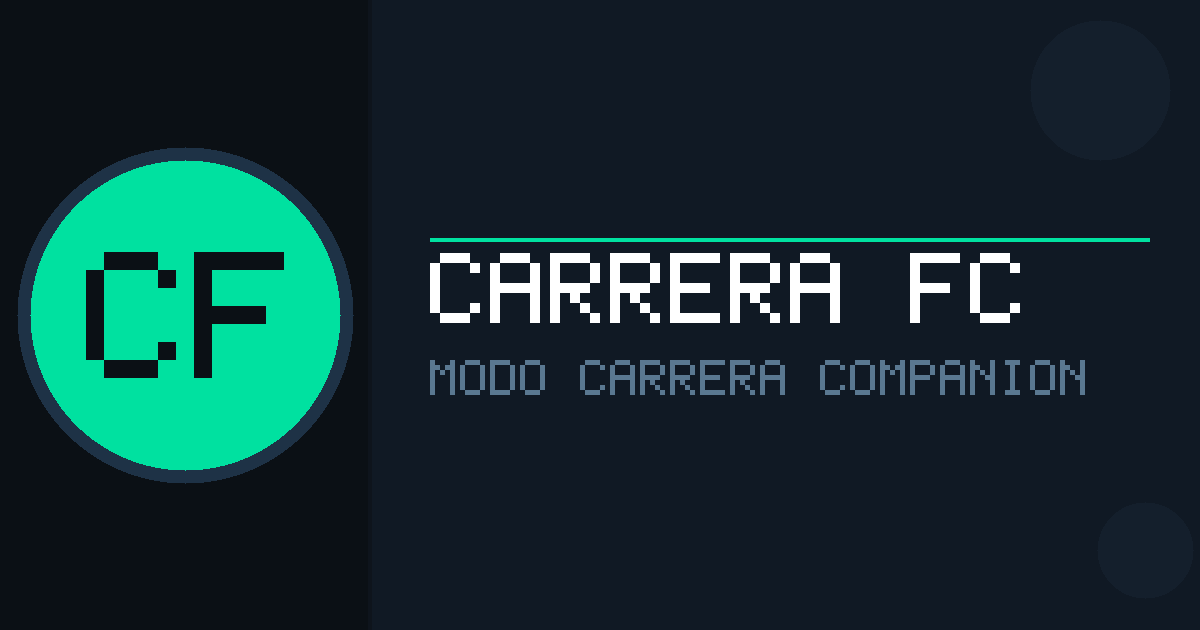
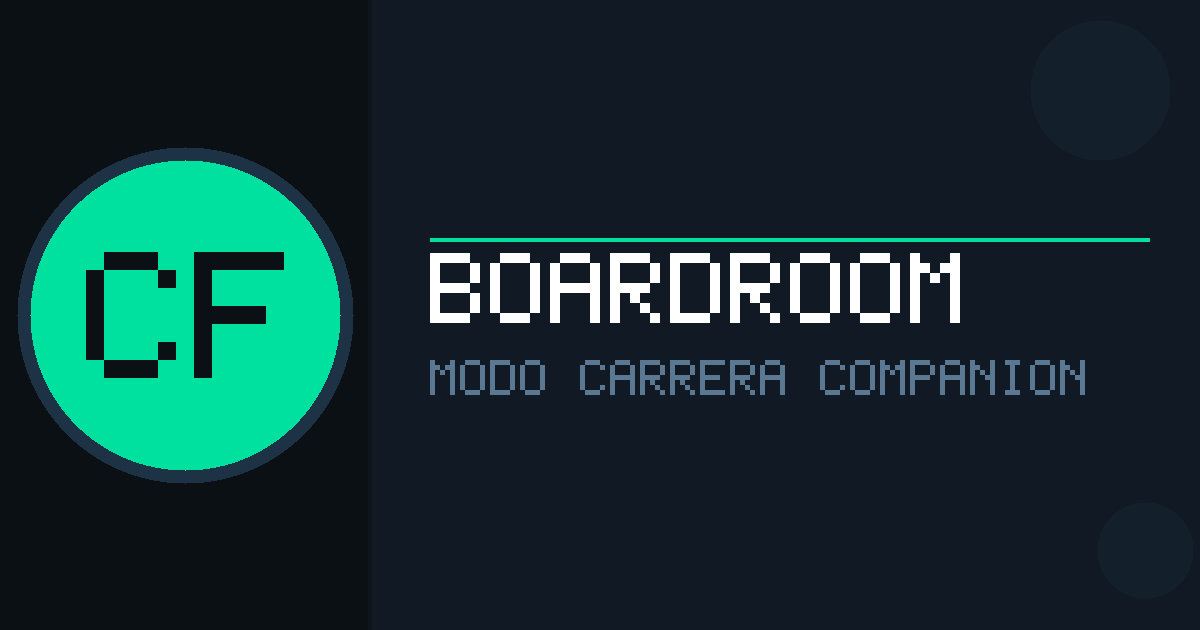
#32 Rebrand Carrera FC → Boardroom
Renombra toda la app a Boardroom: título, OG tags, sidebar, pantalla de
bienvenida, textos legales, watermark en tarjetas compartibles, hashtags.
Nuevo icon.svg: escudo neon + B. Iconos PNG regenerados. social.png actualizada
con título BOARDROOM. Cache SW bumped a boardroom-v1.

localStorage keys (carrerafc:db:v1, carrerafc:cloud:session) sin cambiar
para no romper datos existentes de usuarios.

diff --git a/index.html b/index.html
@@ -3,17 +3,17 @@
 <head>
   <meta charset="UTF-8" />
   <meta name="viewport" content="width=device-width, initial-scale=1.0, viewport-fit=cover" />
-  <title>Carrera FC · Compañero del Modo Carrera</title>
+  <title>Boardroom · Compañero del Modo Carrera</title>
   <meta name="description" content="El compañero definitivo del Modo Carrera de EA Sports FC: tracking, clasificaciones, retos y la historia de tu club." />
   <meta property="og:type" content="website" />
   <meta property="og:url" content="https://juzalex30.github.io/Career-Mode-webapp/" />
-  <meta property="og:title" content="Carrera FC · Compañero del Modo Carrera" />
+  <meta property="og:title" content="Boardroom · Compañero del Modo Carrera" />
   <meta property="og:description" content="Lleva tu Modo Carrera al siguiente nivel: plantilla, partidos, estadísticas, retos y comunidad." />
   <meta property="og:image" content="https://juzalex30.github.io/Career-Mode-webapp/social.png" />
   <meta property="og:image:width" content="1200" />
   <meta property="og:image:height" content="630" />
   <meta name="twitter:card" content="summary_large_image" />
-  <meta name="twitter:title" content="Carrera FC · Compañero del Modo Carrera" />
+  <meta name="twitter:title" content="Boardroom · Compañero del Modo Carrera" />
   <meta name="twitter:description" content="Lleva tu Modo Carrera al siguiente nivel: plantilla, partidos, estadísticas, retos y comunidad." />
   <meta name="twitter:image" content="https://juzalex30.github.io/Career-Mode-webapp/social.png" />
   <link rel="manifest" href="manifest.json" />
@@ -24,7 +24,7 @@
   <script>if("serviceWorker"in navigator)navigator.serviceWorker.register("sw.js");</script>
   <style>
 /* ============================================================
-   Carrera FC — estilos
+   Boardroom — estilos
    Tema oscuro por defecto (data-theme="dark"), variante clara.
    ============================================================ */
 
@@ -790,9 +790,9 @@ body.trip-open { overflow: hidden; }
   <div id="app" class="app">
     <aside class="sidebar" id="sidebar">
       <div class="brand">
-        <div class="brand-mark">CF</div>
+        <img src="icon.svg" width="40" height="40" style="border-radius:11px;flex:none" alt="Boardroom">
         <div class="brand-text">
-          <strong>Carrera FC</strong>
+          <strong>Boardroom</strong>
           <span>Modo Carrera Companion</span>
         </div>
       </div>
@@ -7331,10 +7331,10 @@ body.trip-open { overflow: hidden; }
     const p = (t) => `<p style="margin:0 0 8px;font-size:13.5px;color:var(--text-dim);line-height:1.55">${t}</p>`;
     const body = `
       <p style="margin:0 0 4px;font-size:12px;color:var(--text-dim)">Última actualización: junio de 2026</p>
-      ${h("Qué es Carrera FC")}
-      ${p("Carrera FC es una aplicación web <b>gratuita y de fans</b>, companion del Modo Carrera de EA Sports FC. Funciona en tu navegador y guarda tus datos en este dispositivo; la nube y la comunidad son <b>opcionales</b>.")}
+      ${h("Qué es Boardroom")}
+      ${p("Boardroom es una aplicación web <b>gratuita y de fans</b>, companion del Modo Carrera de EA Sports FC. Funciona en tu navegador y guarda tus datos en este dispositivo; la nube y la comunidad son <b>opcionales</b>.")}
       ${h("Aviso legal — proyecto no oficial")}
-      ${p("Carrera FC es un proyecto <b>no oficial</b> sin afiliación, patrocinio ni licencia de Electronic Arts Inc., EA Sports, EA Sports FC, la FIFA, ni de los clubes, ligas, competiciones o jugadores mencionados. Todas las marcas, nombres y derechos pertenecen a sus respectivos propietarios y se usan solo con fines descriptivos para que registres tu propia carrera.")}
+      ${p("Boardroom es un proyecto <b>no oficial</b> sin afiliación, patrocinio ni licencia de Electronic Arts Inc., EA Sports, EA Sports FC, la FIFA, ni de los clubes, ligas, competiciones o jugadores mencionados. Todas las marcas, nombres y derechos pertenecen a sus respectivos propietarios y se usan solo con fines descriptivos para que registres tu propia carrera.")}
       ${h("Qué datos tratamos y con qué fin")}
       ${p("• <b>Tus carreras</b> (partidos, plantilla, etc.) se guardan en <b>tu navegador</b> (localStorage). No salen de tu dispositivo salvo que tú decidas subirlas a la nube.")}
       ${p("• <b>Email</b>: solo si creas una cuenta. Se usa para enviarte un <b>código de acceso de un solo uso</b> (no usamos contraseñas). Base legal: tu consentimiento.")}
@@ -7399,14 +7399,14 @@ body.trip-open { overflow: hidden; }
     ctx.strokeStyle = "rgba(255,255,255,0.08)"; ctx.lineWidth = 2; rr(PAD / 2, PAD / 2, W - PAD, H - PAD, 40); ctx.stroke();
     const maxW = W - PAD * 2;
     let y = PAD + 36;
-    ctx.fillStyle = ACC; ctx.font = font(30, "bold"); ctx.fillText(String(spec.brand || "Carrera FC").toUpperCase(), PAD, y); y += 80;
+    ctx.fillStyle = ACC; ctx.font = font(30, "bold"); ctx.fillText(String(spec.brand || "Boardroom").toUpperCase(), PAD, y); y += 80;
     ctx.fillStyle = TEXT; wrap(spec.title, maxW, 96, "800").slice(0, 3).forEach(l => { ctx.font = font(96, "800"); ctx.fillText(l, PAD, y); y += 108; });
     if (spec.subtitle) { ctx.fillStyle = DIM; ctx.font = font(42); ctx.fillText(String(spec.subtitle), PAD, y + 4); y += 72; }
     y += 16; ctx.strokeStyle = ACC; ctx.lineWidth = 5; ctx.beginPath(); ctx.moveTo(PAD, y); ctx.lineTo(PAD + 130, y); ctx.stroke(); y += 58;
     if (spec.difficulty) { ctx.fillStyle = DIM; ctx.font = font(28, "bold"); ctx.fillText("DIFICULTAD", PAD, y); ctx.fillStyle = ACC; ctx.font = font(50); ctx.fillText("★".repeat(spec.difficulty) + "☆".repeat(Math.max(0, 5 - spec.difficulty)), PAD + 240, y + 8); y += 80; }
     ctx.fillStyle = TEXT; (spec.lines || []).forEach(line => wrap(line, maxW, 42).forEach(l => { if (y > H - PAD - 110) return; ctx.font = font(42); ctx.fillText(l, PAD, y); y += 58; }));
     if ((spec.chips || []).length) { y += 18; let cx = PAD, cy = y; ctx.font = font(32, "600"); spec.chips.forEach(ch => { const cw = ctx.measureText(ch).width + 48; if (cx + cw > W - PAD) { cx = PAD; cy += 70; } ctx.fillStyle = "rgba(0,225,160,0.14)"; rr(cx, cy - 40, cw, 56, 28); ctx.fill(); ctx.fillStyle = ACC; ctx.font = font(32, "600"); ctx.fillText(ch, cx + 24, cy); cx += cw + 16; }); }
-    ctx.fillStyle = DIM; ctx.font = font(30); ctx.fillText(String(spec.footer || "Mi Modo Carrera · Carrera FC"), PAD, H - PAD + 8);
+    ctx.fillStyle = DIM; ctx.font = font(30); ctx.fillText(String(spec.footer || "Mi Modo Carrera · Boardroom"), PAD, H - PAD + 8);
     const fn = (String(spec.filename || "carrera-fc").replace(/[^\w.-]+/g, "-").replace(/^-+|-+$/g, "") || "carrera-fc") + ".png";
     const a = document.createElement("a"); a.href = cv.toDataURL("image/png"); a.download = fn; a.click();
     UI.toast("Imagen descargada", "ok");
@@ -7428,7 +7428,7 @@ body.trip-open { overflow: hidden; }
       ${trophies.length ? `<div class="cc-rules">${trophies.map(t=>`<span class="chip gold">🏆 ${U.esc(t.competition||"")}${t.season?" "+U.esc(t.season):""}</span>`).join("")}</div>` : `<p class="faint">Sin títulos todavía.</p>`}
       <div class="section-title">Estrella del club</div>
       <p style="margin:0">⚽ Máximo goleador: <b>${top}</b></p>
-      <p class="faint" style="font-size:12px;margin-top:16px">Carrera compartida desde Carrera FC · solo lectura.</p>`;
+      <p class="faint" style="font-size:12px;margin-top:16px">Carrera compartida desde Boardroom · solo lectura.</p>`;
   };
   UI.openSharedByCode = async (code, cfgOverride) => {
     if (!code) { UI.toast("Indica un código", "err"); return; }
@@ -7577,7 +7577,7 @@ body.trip-open { overflow: hidden; }
     // —— Columna de marca (izquierda) ——
     const feat = (icon, title, desc) => `<div class="wl-feat"><span class="wl-feat-ic"><span class="ni-icon" data-icon="${icon}"></span></span><div><b>${title}</b><span>${desc}</span></div></div>`;
     const brand = `<div class="wl-brand">
-      <div class="wl-logo"><div class="brand-mark">CF</div><div><div class="wl-name">Carrera FC</div><div class="wl-tag">Tu Modo Carrera, contado como una historia</div></div></div>
+      <div class="wl-logo"><img src="icon.svg" style="width:50px;height:50px;border-radius:14px;flex:none" alt="Boardroom"><div><div class="wl-name">Boardroom</div><div class="wl-tag">Tu Modo Carrera, contado como una historia</div></div></div>
       <div class="wl-feats">
         ${feat("coin", "Mercado BETMÁXIMA", "Cuotas, tipsters y boleto en vivo de cada partido")}
         ${feat("news", "Prensa y crónicas", "Titulares y crónicas generadas de tu temporada")}
@@ -8297,7 +8297,7 @@ body.trip-open { overflow: hidden; }
     ctx.beginPath(); ctx.moveTo(40, H-55); ctx.lineTo(W-40, H-55); ctx.stroke();
     ctx.fillStyle = "#00e1a0"; ctx.font = `bold 20px ${FONT}`;
     ctx.textAlign = "right"; ctx.textBaseline = "bottom";
-    ctx.fillText("Carrera FC", W-40, H-16);
+    ctx.fillText("Boardroom", W-40, H-16);
     ctx.fillStyle = "#62748c"; ctx.font = `17px ${FONT}`;
     ctx.textAlign = "left";
     ctx.fillText("Compañero del Modo Carrera · EA Sports FC", 40, H-16);
@@ -10530,7 +10530,7 @@ body.trip-open { overflow: hidden; }
       + "Objetivo: " + r.objective.text + " en " + r.seasons + " temporadas\n"
       + (r.twists.length ? "Reglas: " + r.twists.map(t => t.label).join(" · ") + "\n" : "")
       + "Dificultad: " + stars + "\n"
-      + "¿Te atreves? #CarreraFC #ModoCarrera";
+      + "¿Te atreves? #Boardroom #ModoCarrera";
   }
   function toolCopy(txt) {
     const done = () => UI.toast("Reto copiado 📋", "ok");
@@ -10586,11 +10586,11 @@ body.trip-open { overflow: hidden; }
       U.hydrateIcons(box);
       document.getElementById("tool-copy").addEventListener("click", () => toolCopy(rollShareText(r)));
       document.getElementById("tool-img").addEventListener("click", () => UI.downloadCard({
-        brand: r.mode === "rebuild" ? "Carrera FC · Rebuild" : "Carrera FC · Reto",
+        brand: r.mode === "rebuild" ? "Boardroom · Rebuild" : "Boardroom · Reto",
         title: r.club, subtitle: r.league, difficulty: r.difficulty,
         lines: [r.objective.text, "en " + r.seasons + " temporadas"],
         chips: r.twists.map(t => t.label),
-        footer: "¿Te atreves? · #CarreraFC #ModoCarrera", filename: "reto-" + r.club,
+        footer: "¿Te atreves? · #Boardroom #ModoCarrera", filename: "reto-" + r.club,
       }));
       document.getElementById("tool-again").addEventListener("click", reroll);
       document.getElementById("tool-activate").addEventListener("click", () => {
@@ -10855,7 +10855,7 @@ body.trip-open { overflow: hidden; }
       UI.toast("Nuevo suceso en el vestuario", "ok");
     });
     document.getElementById("story-img").addEventListener("click", () => UI.downloadCard({
-      brand: "Carrera FC · Temporada", title: c.clubName, subtitle: season.label,
+      brand: "Boardroom · Temporada", title: c.clubName, subtitle: season.label,
       lines: [recap], footer: "Mi Modo Carrera", filename: "temporada-" + c.clubName + "-" + season.label,
     }));
   };
@@ -11525,7 +11525,7 @@ body.trip-open { overflow: hidden; }
       </div>
       <div class="section-title">Privacidad y aviso legal</div>
       <div class="card" style="font-size:13px">
-        <p class="faint" style="margin-top:0">Carrera FC es un proyecto de fans <b>no oficial</b>, sin afiliación con EA Sports / EA Sports FC, la FIFA ni los clubes o competiciones mencionados.</p>
+        <p class="faint" style="margin-top:0">Boardroom es un proyecto de fans <b>no oficial</b>, sin afiliación con EA Sports / EA Sports FC, la FIFA ni los clubes o competiciones mencionados.</p>
         <button class="btn btn-ghost btn-sm" id="se-privacy"><span class="ni-icon" data-icon="news"></span> Política de privacidad y aviso legal</button>
       </div>
     `);
@@ -11985,7 +11985,7 @@ body.trip-open { overflow: hidden; }
     // active nav
     const cur = R.current || "dashboard";
     U.els("#mainNav .nav-item, .nav-bottom .nav-item").forEach(a => a.classList.toggle("active", a.dataset.route === cur));
-    const tt = document.getElementById("topbarTitle"); if (tt) tt.textContent = TITLES[cur] || "Carrera FC";
+    const tt = document.getElementById("topbarTitle"); if (tt) tt.textContent = TITLES[cur] || "Boardroom";
     document.body.classList.remove("nav-open");
     // Modo en vivo: pantalla a pantalla completa (oculta chrome y bloquea scroll de fondo).
     document.body.classList.toggle("live-active", cur === "live");

diff --git a/js/views.js b/js/views.js
@@ -71,10 +71,10 @@
     const p = (t) => `<p style="margin:0 0 8px;font-size:13.5px;color:var(--text-dim);line-height:1.55">${t}</p>`;
     const body = `
       <p style="margin:0 0 4px;font-size:12px;color:var(--text-dim)">Última actualización: junio de 2026</p>
-      ${h("Qué es Carrera FC")}
-      ${p("Carrera FC es una aplicación web <b>gratuita y de fans</b>, companion del Modo Carrera de EA Sports FC. Funciona en tu navegador y guarda tus datos en este dispositivo; la nube y la comunidad son <b>opcionales</b>.")}
+      ${h("Qué es Boardroom")}
+      ${p("Boardroom es una aplicación web <b>gratuita y de fans</b>, companion del Modo Carrera de EA Sports FC. Funciona en tu navegador y guarda tus datos en este dispositivo; la nube y la comunidad son <b>opcionales</b>.")}
       ${h("Aviso legal — proyecto no oficial")}
-      ${p("Carrera FC es un proyecto <b>no oficial</b> sin afiliación, patrocinio ni licencia de Electronic Arts Inc., EA Sports, EA Sports FC, la FIFA, ni de los clubes, ligas, competiciones o jugadores mencionados. Todas las marcas, nombres y derechos pertenecen a sus respectivos propietarios y se usan solo con fines descriptivos para que registres tu propia carrera.")}
+      ${p("Boardroom es un proyecto <b>no oficial</b> sin afiliación, patrocinio ni licencia de Electronic Arts Inc., EA Sports, EA Sports FC, la FIFA, ni de los clubes, ligas, competiciones o jugadores mencionados. Todas las marcas, nombres y derechos pertenecen a sus respectivos propietarios y se usan solo con fines descriptivos para que registres tu propia carrera.")}
       ${h("Qué datos tratamos y con qué fin")}
       ${p("• <b>Tus carreras</b> (partidos, plantilla, etc.) se guardan en <b>tu navegador</b> (localStorage). No salen de tu dispositivo salvo que tú decidas subirlas a la nube.")}
       ${p("• <b>Email</b>: solo si creas una cuenta. Se usa para enviarte un <b>código de acceso de un solo uso</b> (no usamos contraseñas). Base legal: tu consentimiento.")}
@@ -139,14 +139,14 @@
     ctx.strokeStyle = "rgba(255,255,255,0.08)"; ctx.lineWidth = 2; rr(PAD / 2, PAD / 2, W - PAD, H - PAD, 40); ctx.stroke();
     const maxW = W - PAD * 2;
     let y = PAD + 36;
-    ctx.fillStyle = ACC; ctx.font = font(30, "bold"); ctx.fillText(String(spec.brand || "Carrera FC").toUpperCase(), PAD, y); y += 80;
+    ctx.fillStyle = ACC; ctx.font = font(30, "bold"); ctx.fillText(String(spec.brand || "Boardroom").toUpperCase(), PAD, y); y += 80;
     ctx.fillStyle = TEXT; wrap(spec.title, maxW, 96, "800").slice(0, 3).forEach(l => { ctx.font = font(96, "800"); ctx.fillText(l, PAD, y); y += 108; });
     if (spec.subtitle) { ctx.fillStyle = DIM; ctx.font = font(42); ctx.fillText(String(spec.subtitle), PAD, y + 4); y += 72; }
     y += 16; ctx.strokeStyle = ACC; ctx.lineWidth = 5; ctx.beginPath(); ctx.moveTo(PAD, y); ctx.lineTo(PAD + 130, y); ctx.stroke(); y += 58;
     if (spec.difficulty) { ctx.fillStyle = DIM; ctx.font = font(28, "bold"); ctx.fillText("DIFICULTAD", PAD, y); ctx.fillStyle = ACC; ctx.font = font(50); ctx.fillText("★".repeat(spec.difficulty) + "☆".repeat(Math.max(0, 5 - spec.difficulty)), PAD + 240, y + 8); y += 80; }
     ctx.fillStyle = TEXT; (spec.lines || []).forEach(line => wrap(line, maxW, 42).forEach(l => { if (y > H - PAD - 110) return; ctx.font = font(42); ctx.fillText(l, PAD, y); y += 58; }));
     if ((spec.chips || []).length) { y += 18; let cx = PAD, cy = y; ctx.font = font(32, "600"); spec.chips.forEach(ch => { const cw = ctx.measureText(ch).width + 48; if (cx + cw > W - PAD) { cx = PAD; cy += 70; } ctx.fillStyle = "rgba(0,225,160,0.14)"; rr(cx, cy - 40, cw, 56, 28); ctx.fill(); ctx.fillStyle = ACC; ctx.font = font(32, "600"); ctx.fillText(ch, cx + 24, cy); cx += cw + 16; }); }
-    ctx.fillStyle = DIM; ctx.font = font(30); ctx.fillText(String(spec.footer || "Mi Modo Carrera · Carrera FC"), PAD, H - PAD + 8);
+    ctx.fillStyle = DIM; ctx.font = font(30); ctx.fillText(String(spec.footer || "Mi Modo Carrera · Boardroom"), PAD, H - PAD + 8);
     const fn = (String(spec.filename || "carrera-fc").replace(/[^\w.-]+/g, "-").replace(/^-+|-+$/g, "") || "carrera-fc") + ".png";
     const a = document.createElement("a"); a.href = cv.toDataURL("image/png"); a.download = fn; a.click();
     UI.toast("Imagen descargada", "ok");
@@ -168,7 +168,7 @@
       ${trophies.length ? `<div class="cc-rules">${trophies.map(t=>`<span class="chip gold">🏆 ${U.esc(t.competition||"")}${t.season?" "+U.esc(t.season):""}</span>`).join("")}</div>` : `<p class="faint">Sin títulos todavía.</p>`}
       <div class="section-title">Estrella del club</div>
       <p style="margin:0">⚽ Máximo goleador: <b>${top}</b></p>
-      <p class="faint" style="font-size:12px;margin-top:16px">Carrera compartida desde Carrera FC · solo lectura.</p>`;
+      <p class="faint" style="font-size:12px;margin-top:16px">Carrera compartida desde Boardroom · solo lectura.</p>`;
   };
   UI.openSharedByCode = async (code, cfgOverride) => {
     if (!code) { UI.toast("Indica un código", "err"); return; }
@@ -317,7 +317,7 @@
     // —— Columna de marca (izquierda) ——
     const feat = (icon, title, desc) => `<div class="wl-feat"><span class="wl-feat-ic"><span class="ni-icon" data-icon="${icon}"></span></span><div><b>${title}</b><span>${desc}</span></div></div>`;
     const brand = `<div class="wl-brand">
-      <div class="wl-logo"><div class="brand-mark">CF</div><div><div class="wl-name">Carrera FC</div><div class="wl-tag">Tu Modo Carrera, contado como una historia</div></div></div>
+      <div class="wl-logo"><img src="icon.svg" style="width:50px;height:50px;border-radius:14px;flex:none" alt="Boardroom"><div><div class="wl-name">Boardroom</div><div class="wl-tag">Tu Modo Carrera, contado como una historia</div></div></div>
       <div class="wl-feats">
         ${feat("coin", "Mercado BETMÁXIMA", "Cuotas, tipsters y boleto en vivo de cada partido")}
         ${feat("news", "Prensa y crónicas", "Titulares y crónicas generadas de tu temporada")}
@@ -1037,7 +1037,7 @@
     ctx.beginPath(); ctx.moveTo(40, H-55); ctx.lineTo(W-40, H-55); ctx.stroke();
     ctx.fillStyle = "#00e1a0"; ctx.font = `bold 20px ${FONT}`;
     ctx.textAlign = "right"; ctx.textBaseline = "bottom";
-    ctx.fillText("Carrera FC", W-40, H-16);
+    ctx.fillText("Boardroom", W-40, H-16);
     ctx.fillStyle = "#62748c"; ctx.font = `17px ${FONT}`;
     ctx.textAlign = "left";
     ctx.fillText("Compañero del Modo Carrera · EA Sports FC", 40, H-16);
@@ -3270,7 +3270,7 @@
       + "Objetivo: " + r.objective.text + " en " + r.seasons + " temporadas\n"
       + (r.twists.length ? "Reglas: " + r.twists.map(t => t.label).join(" · ") + "\n" : "")
       + "Dificultad: " + stars + "\n"
-      + "¿Te atreves? #CarreraFC #ModoCarrera";
+      + "¿Te atreves? #Boardroom #ModoCarrera";
   }
   function toolCopy(txt) {
     const done = () => UI.toast("Reto copiado 📋", "ok");
@@ -3326,11 +3326,11 @@
       U.hydrateIcons(box);
       document.getElementById("tool-copy").addEventListener("click", () => toolCopy(rollShareText(r)));
       document.getElementById("tool-img").addEventListener("click", () => UI.downloadCard({
-        brand: r.mode === "rebuild" ? "Carrera FC · Rebuild" : "Carrera FC · Reto",
+        brand: r.mode === "rebuild" ? "Boardroom · Rebuild" : "Boardroom · Reto",
         title: r.club, subtitle: r.league, difficulty: r.difficulty,
         lines: [r.objective.text, "en " + r.seasons + " temporadas"],
         chips: r.twists.map(t => t.label),
-        footer: "¿Te atreves? · #CarreraFC #ModoCarrera", filename: "reto-" + r.club,
+        footer: "¿Te atreves? · #Boardroom #ModoCarrera", filename: "reto-" + r.club,
       }));
       document.getElementById("tool-again").addEventListener("click", reroll);
       document.getElementById("tool-activate").addEventListener("click", () => {
@@ -3595,7 +3595,7 @@
       UI.toast("Nuevo suceso en el vestuario", "ok");
     });
     document.getElementById("story-img").addEventListener("click", () => UI.downloadCard({
-      brand: "Carrera FC · Temporada", title: c.clubName, subtitle: season.label,
+      brand: "Boardroom · Temporada", title: c.clubName, subtitle: season.label,
       lines: [recap], footer: "Mi Modo Carrera", filename: "temporada-" + c.clubName + "-" + season.label,
     }));
   };
@@ -4265,7 +4265,7 @@
       </div>
       <div class="section-title">Privacidad y aviso legal</div>
       <div class="card" style="font-size:13px">
-        <p class="faint" style="margin-top:0">Carrera FC es un proyecto de fans <b>no oficial</b>, sin afiliación con EA Sports / EA Sports FC, la FIFA ni los clubes o competiciones mencionados.</p>
+        <p class="faint" style="margin-top:0">Boardroom es un proyecto de fans <b>no oficial</b>, sin afiliación con EA Sports / EA Sports FC, la FIFA ni los clubes o competiciones mencionados.</p>
         <button class="btn btn-ghost btn-sm" id="se-privacy"><span class="ni-icon" data-icon="news"></span> Política de privacidad y aviso legal</button>
       </div>
     `);

diff --git a/build.js b/build.js
@@ -19,9 +19,9 @@ const BODY = `
   <div id="app" class="app">
     <aside class="sidebar" id="sidebar">
       <div class="brand">
-        <div class="brand-mark">CF</div>
+        <img src="icon.svg" width="40" height="40" style="border-radius:11px;flex:none" alt="Boardroom">
         <div class="brand-text">
-          <strong>Carrera FC</strong>
+          <strong>Boardroom</strong>
           <span>Modo Carrera Companion</span>
         </div>
       </div>
@@ -68,17 +68,17 @@ const out = `<!DOCTYPE html>
 <head>
   <meta charset="UTF-8" />
   <meta name="viewport" content="width=device-width, initial-scale=1.0, viewport-fit=cover" />
-  <title>Carrera FC · Compañero del Modo Carrera</title>
+  <title>Boardroom · Compañero del Modo Carrera</title>
   <meta name="description" content="El compañero definitivo del Modo Carrera de EA Sports FC: tracking, clasificaciones, retos y la historia de tu club." />
   <meta property="og:type" content="website" />
   <meta property="og:url" content="https://juzalex30.github.io/Career-Mode-webapp/" />
-  <meta property="og:title" content="Carrera FC · Compañero del Modo Carrera" />
+  <meta property="og:title" content="Boardroom · Compañero del Modo Carrera" />
   <meta property="og:description" content="Lleva tu Modo Carrera al siguiente nivel: plantilla, partidos, estadísticas, retos y comunidad." />
   <meta property="og:image" content="https://juzalex30.github.io/Career-Mode-webapp/social.png" />
   <meta property="og:image:width" content="1200" />
   <meta property="og:image:height" content="630" />
   <meta name="twitter:card" content="summary_large_image" />
-  <meta name="twitter:title" content="Carrera FC · Compañero del Modo Carrera" />
+  <meta name="twitter:title" content="Boardroom · Compañero del Modo Carrera" />
   <meta name="twitter:description" content="Lleva tu Modo Carrera al siguiente nivel: plantilla, partidos, estadísticas, retos y comunidad." />
   <meta name="twitter:image" content="https://juzalex30.github.io/Career-Mode-webapp/social.png" />
   <link rel="manifest" href="manifest.json" />

diff --git a/gensocial.js b/gensocial.js
@@ -37,6 +37,7 @@ function circle(cx, cy, r, c) {
 
 const GLYPHS = {
   A: ["01110","10001","10001","11111","10001","10001","10001"],
+  B: ["11110","10001","10001","11110","10001","10001","11110"],
   C: ["01110","10001","10000","10000","10000","10001","01110"],
   D: ["11110","10001","10001","10001","10001","10001","11110"],
   E: ["11111","10000","10000","11110","10000","10000","11111"],
@@ -91,8 +92,8 @@ drawChar("F", cfX + 6*unit, cfY, unit, BG);
 // Línea de acento verde
 rect(430, 238, 1150, 242, GREEN);
 
-// Título "CARRERA FC"
-drawText("CARRERA FC", 430, 253, 10, WHITE);
+// Título "BOARDROOM"
+drawText("BOARDROOM", 430, 253, 10, WHITE);
 
 // Tagline "MODO CARRERA COMPANION"
 drawText("MODO CARRERA COMPANION", 430, 360, 5, DIM);

diff --git a/sw.js b/sw.js
@@ -1,8 +1,8 @@
-/* Carrera FC — Service Worker
+/* Boardroom — Service Worker
    Estrategia: network-first para index.html (siempre la versión más reciente),
    cache-first para el resto de assets estáticos (manifest, icono).
    Offline: sirve index.html cacheado como fallback. */
-const CACHE_KEY = "carrerafc-v4";
+const CACHE_KEY = "boardroom-v1";
 const ASSETS = ["./index.html", "./manifest.json", "./icon.svg", "./icon-192.png", "./icon-512.png", "./apple-touch-icon.png", "./social.png"];
 
 self.addEventListener("install", e => {

diff --git a/js/app.js b/js/app.js
@@ -40,7 +40,7 @@
     // active nav
     const cur = R.current || "dashboard";
     U.els("#mainNav .nav-item, .nav-bottom .nav-item").forEach(a => a.classList.toggle("active", a.dataset.route === cur));
-    const tt = document.getElementById("topbarTitle"); if (tt) tt.textContent = TITLES[cur] || "Carrera FC";
+    const tt = document.getElementById("topbarTitle"); if (tt) tt.textContent = TITLES[cur] || "Boardroom";
     document.body.classList.remove("nav-open");
     // Modo en vivo: pantalla a pantalla completa (oculta chrome y bloquea scroll de fondo).
     document.body.classList.toggle("live-active", cur === "live");

diff --git a/styles.css b/styles.css
@@ -1,5 +1,5 @@
 /* ============================================================
-   Carrera FC — estilos
+   Boardroom — estilos
    Tema oscuro por defecto (data-theme="dark"), variante clara.
    ============================================================ */
 